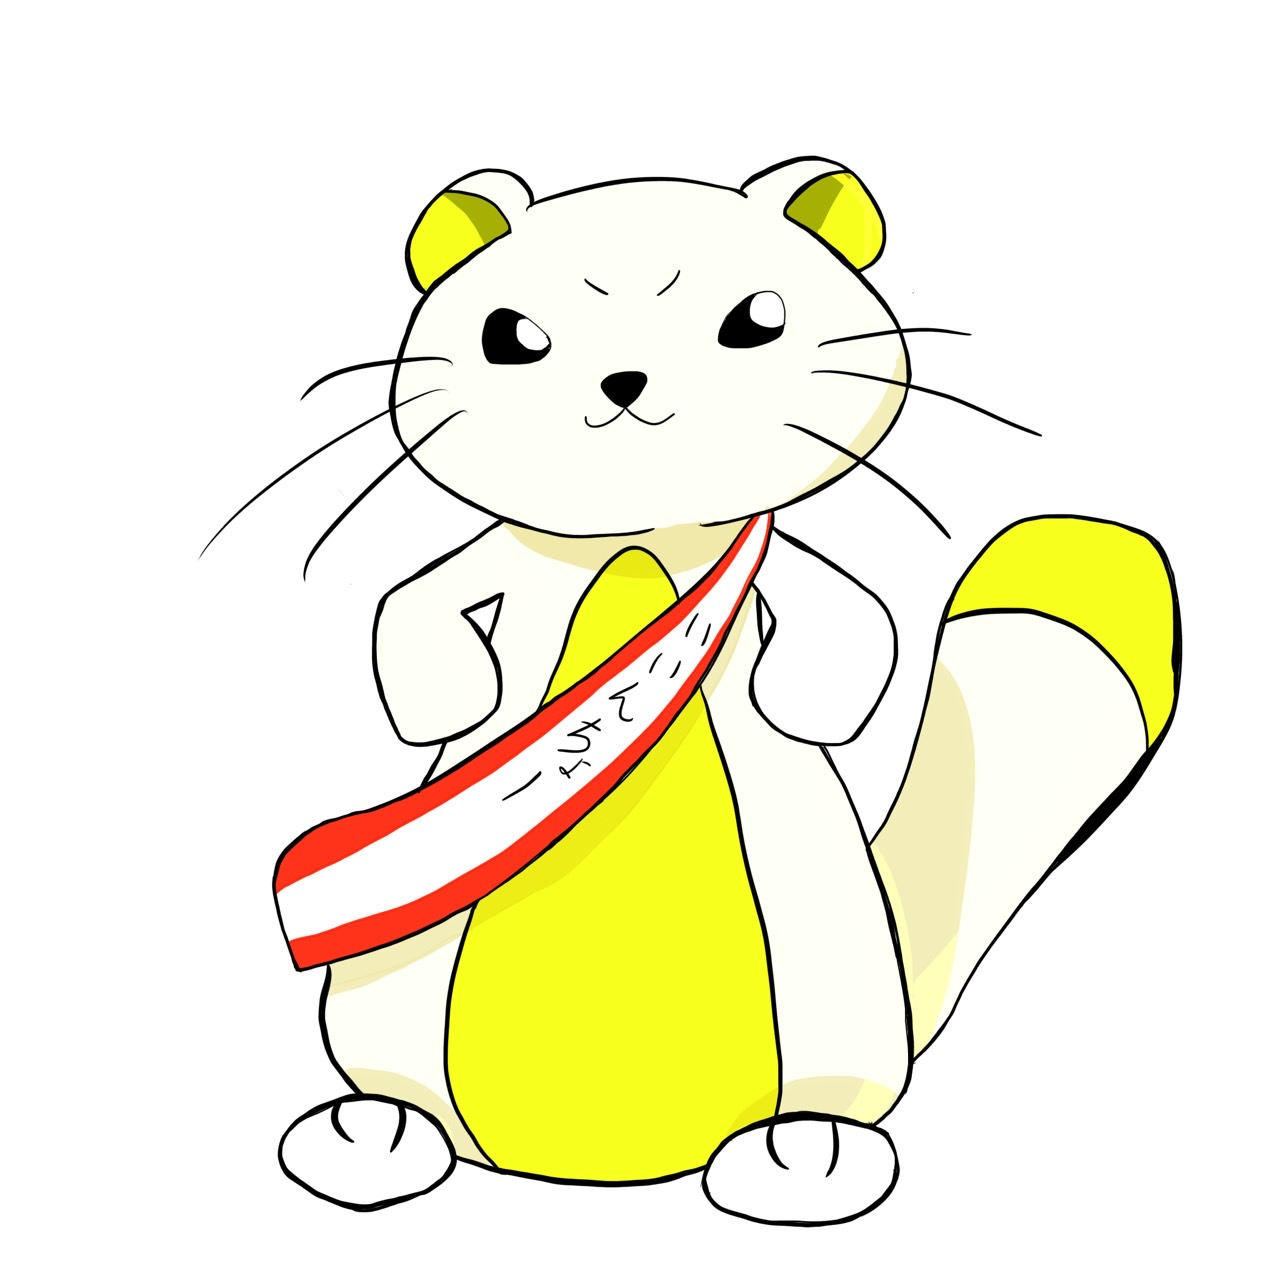
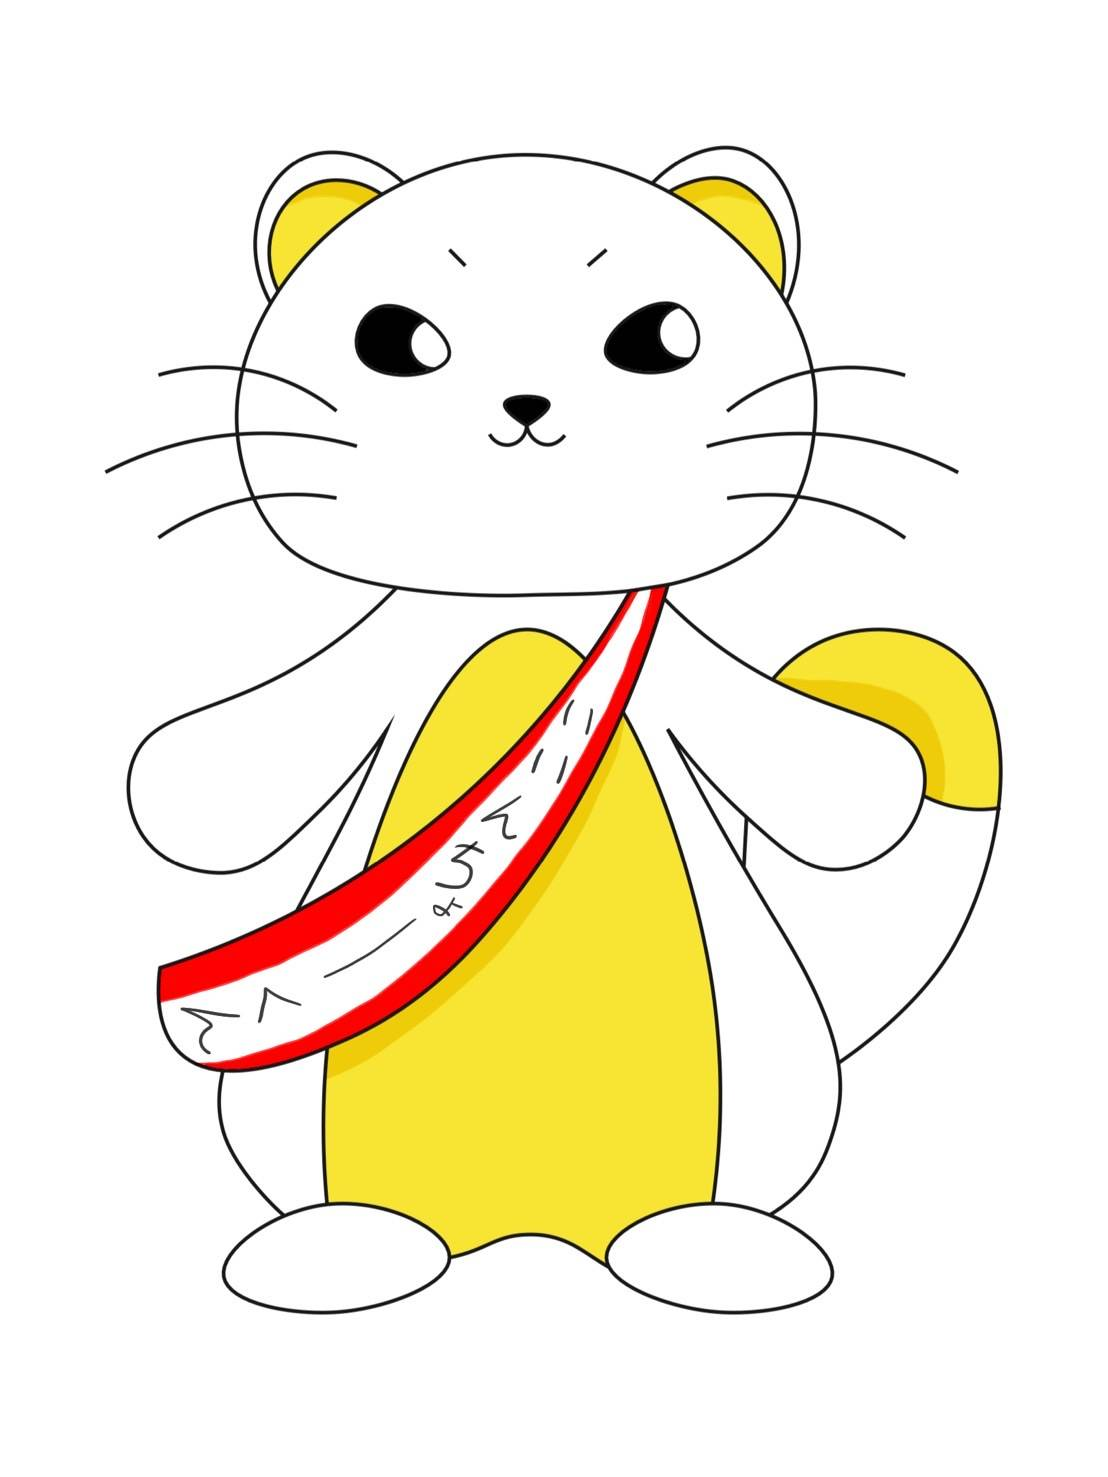
kousin

diff --git a/docs/character/index.html b/docs/character/index.html
@@ -46,11 +46,72 @@
         <div class="title">いいんちょーくん</div>
        <div style="text-align: center;"><img src="../image/defo.jpg" width="300px" height="auto"></div>
         <p>僕の名前はいいんちょー！<br>
-          この都立大子どもまつり実行委員会の委員長なのだ！
-    
+          この都立大子どもまつり実行委員会の委員長なのだ！<br>
+          みんなに愛されるキュートなキャラクターになりたいんだじょ💖
         </p>
-        <p>プロフィール</p>
-        <p>現在調整中です</p>
+        <p>🌟いいんちょープロフィール🌟</p>
+        <div style="text-align: center;">
+          <table border="2" style="text-align: center; margin: 0 auto;"width="70%">
+            <tr>
+              <td>名前</td>
+              <td>いいんちょー</td>
+            </tr>
+            <tr>
+              <td>誕生日</td>
+              <td>8月23日</td>
+            </tr>
+            <tr>
+              <td>属性</td>
+              <td>おこじょ</td>
+            </tr>
+            <tr>
+              <td>好きな食べ物</td>
+              <td>福神漬け、ネズミ</td>
+            </tr>
+            <tr>
+              <td>嫌いな食べ物</td>
+              <td>カレーライス</td>
+            </tr>
+            <tr>
+              <td>趣味</td>
+              <td>お昼寝、カンフー</td>
+            </tr>
+            <tr>
+              <td>特技</td>
+              <td>尻尾の形を自由自在にできる</td>
+            </tr>
+            <tr>
+              <td>最近の悩み</td>
+              <td>換毛期がみんなと反対</td>
+            </tr>
+            <tr>
+              <td>好きな色</td>
+              <td>黄色</td>
+            </tr>
+            <tr>
+              <td>性格</td>
+              <td>好奇心旺盛</td>
+            </tr>
+            <tr>
+              <td>年齢</td>
+              <td>５さい</td>
+            </tr>
+            <tr>
+              <td>チャームポイント</td>
+              <td>長いひげ</td>
+            </tr>
+            <tr>
+              <td>出身</td>
+              <td>首都大学東京</td>
+            </tr>
+            <tr>
+              <td>身長</td>
+              <td>100cm
+              </td>
+            </tr>
+          </table>
+        </div>
+        
      </main>
 
     <footer>
@@ -58,8 +119,8 @@
         <p>後援：八王子市教育委員会・多摩市教育委員会</p>
         <a href="https://x.com/tmukodomofes" class="image"><img src="../image/X.jpg" alt="X:@tmukodomofes" width="30px" height="auto"></a>
         <a href="https://instagram.com/tmukodomofes" class="image"><img src="../image/instagram.jpg" alt="Instagram:@tmukodomofes" width="30px" height="auto"></a>
-        <p>代表者：井上</p>
-        <p>created by  都立大子どもまつり実行委員会</p>
+        <p>代表者：井上雄哉</p>
+        <p>created by 都立大子どもまつり実行委員会</p>
     </footer>
 </body>
 </html>

diff --git a/docs/kikaku/index.html b/docs/kikaku/index.html
@@ -56,7 +56,7 @@
         <p>後援:八王子市教育委員会・多摩市教育委員会</p>
         <a href="https://x.com/tmukodomofes" class="image"><img src="../image/X.jpg" alt="X:@tmukodomofes" width="30px" height="auto"></a>
         <a href="https://instagram.com/tmukodomofes" class="image"><img src="../image/instagram.jpg" alt="Instagram:@tmukodomofes" width="30px" height="auto"></a>
-        <p>代表者：井上</p>
+        <p>代表者：井上雄哉</p>
         <p>created by  都立大子どもまつり実行委員会</p>
     </footer>
     <script>
@@ -70,7 +70,6 @@
                     <div class="info-box">
                         <h2>企画ごとにさがす</h2>
                         <div class="container">
-                          <p>※現在調整中です※</p>
                             <div class="box"><img src="../image/plan1.png" alt=" "></div>
                             <div class="box"><img src="../image/plan2.png" alt=" "></div>
                             <div class="box"><img src="../image/plan3.png" alt=" "></div>
@@ -82,13 +81,14 @@
                             <div class="box"><img src="../image/plan9.png" alt=" "></div>
                             <div class="box"><img src="../image/plan10.png" alt=" "></div>
                             <div class="box"><img src="../image/plan11.png" alt=" "></div>
+                            <div class="box"><img src="../image/plan12.png" alt=" "></div>
+                            <div class="box"><img src="../image/plan13.png" alt=" "></div>
                         </div>
                     </div>`;
             } else if (type === "interest") {
                 infoContent = `
                     <div class="info-box">
                         <h2>やりたいことからさがす</h2>
-                        <p>※現在調整中です※</p>
                          <div class="box2">見る</div>
                          <div class="box2">体験する</div>
                        <div class="box2">探す</div>

diff --git a/docs/map/index.html b/docs/map/index.html
@@ -45,11 +45,11 @@
     <main>
         <div class="title">館内マップ</div>
         <p>構内マップ</p>
-        <div style="text-align: center;"><img src="../image/tmumap.png" width="500px" height="auto"></div>
+        <div style="text-align: center;"><img src="../image/tmumap.png" width="700px" height="auto"></div>
         <p>7号館1階</p>
-        <p>現在調整中です</p>
+        <div style="text-align: center;"><img src="../image/map1.png" width="700px" height="auto"></div>
         <p>7号館2階</p>
-        <p>現在調整中です</p>
+        <div style="text-align: center;"><img src="../image/map2.png" width="700px" height="auto"></div>
     </main>
 
     <footer>
@@ -57,7 +57,7 @@
         <p>後援:八王子市教育委員会・多摩市教育委員会</p>
         <a href="https://x.com/tmukodomofes" class="image"><img src="../image/X.jpg" alt="X:@tmukodomofes" width="30px" height="auto"></a>
         <a href="https://instagram.com/tmukodomofes" class="image"><img src="../image/instagram.jpg" alt="Instagram:@tmukodomofes" width="30px" height="auto"></a>
-        <p>代表者：井上</p>
+        <p>代表者：井上雄哉</p>
         <p>created by  都立大子どもまつり実行委員会</p>
     </footer>
 </body>

diff --git a/docs/index.html b/docs/index.html
@@ -44,7 +44,6 @@
     
     <main>
      <img src="image/poster.jpg" alt="ポスター画像" width="100%" height="auto"></a>
-     <p>※このサイトは現在試運用中です。完成までもうしばらくお待ちください。</p>
         <div class="subtitle">子どもまつりとは？</div>
         <p>子どものための大学祭！<br>
             夏休みの大学を使った、楽しい企画が盛りだくさん！<br>
@@ -62,7 +61,7 @@
         <p>後援:八王子市教育委員会・多摩市教育委員会</p>
         <a href="https://x.com/tmukodomofes" class="image"><img src="image/X.jpg" alt="X:@tmukodomofes" width="30px" height="auto"></a>
         <a href="https://instagram.com/tmukodomofes" class="image"><img src="image/instagram.jpg" alt="Instagram:@tmukodomofes" width="30px" height="auto"></a>
-        <p>代表者：井上</p>
+        <p>代表者：井上雄哉</p>
         <p>created by  都立大子どもまつり実行委員会</p>
     </footer>
 </body>

diff --git a/docs/news/index.html b/docs/news/index.html
@@ -44,6 +44,7 @@
     
     <main>
         <div class="title">新着ニュース</div>
+        <p>2024/08/16 ホームページを更新しました</p>
         <p>2024/07/02 ホームページを開設しました</p>
         </body>
     </main>
@@ -53,7 +54,7 @@
         <p>後援:八王子市教育委員会・多摩市教育委員会</p>
         <a href="https://x.com/tmukodomofes" class="image"><img src="../image/X.jpg" alt="X:@tmukodomofes" width="30px" height="auto"></a>
         <a href="https://instagram.com/tmukodomofes" class="image"><img src="../image/instagram.jpg" alt="Instagram:@tmukodomofes" width="30px" height="auto"></a>
-        <p>代表者：井上</p>
+        <p>代表者：井上雄哉</p>
         <p>created by  都立大子どもまつり実行委員会</p>
     </footer>
 </body>

diff --git a/docs/schedule/index.html b/docs/schedule/index.html
@@ -45,8 +45,13 @@
     <main>
         <div class="title">企画スケジュール</div>
         <p>7号館スタジオでは２つの団体が公演をを行います！</p>
-        <p>スケジュールの画像を入れる</p>
-        <p>スタジオ企画以外は開催時間(10:00~17:00)のいつでもやっています</p>
+        <p>11:00~11:50</p>
+        <p>🧸人形劇🎀</p>
+        <p>12:00~15:00</p>
+        <p>ジャグリング体験会🤹</p>
+        <p>16:10~17:00</p>
+        <p>🧸人形劇🎀</p>
+        <p>スタジオ企画以外は開催時間(10:00~17:00)のいつでもやっています!</p>
     </main>
 
     <footer>

diff --git a/docs/contact/index.html b/docs/contact/index.html
@@ -55,7 +55,7 @@
         <p>後援:八王子市教育委員会・多摩市教育委員会</p>
         <a href="https://x.com/tmukodomofes" class="image"><img src="../image/X.jpg" alt="X:@tmukodomofes" width="30px" height="auto"></a>
         <a href="https://instagram.com/tmukodomofes" class="image"><img src="../image/instagram.jpg" alt="Instagram:@tmukodomofes" width="30px" height="auto"></a>
-        <p>代表者：井上</p>
+        <p>代表者：井上雄哉</p>
         <p>created by  都立大子どもまつり実行委員会</p>
     </footer>
 </body>
